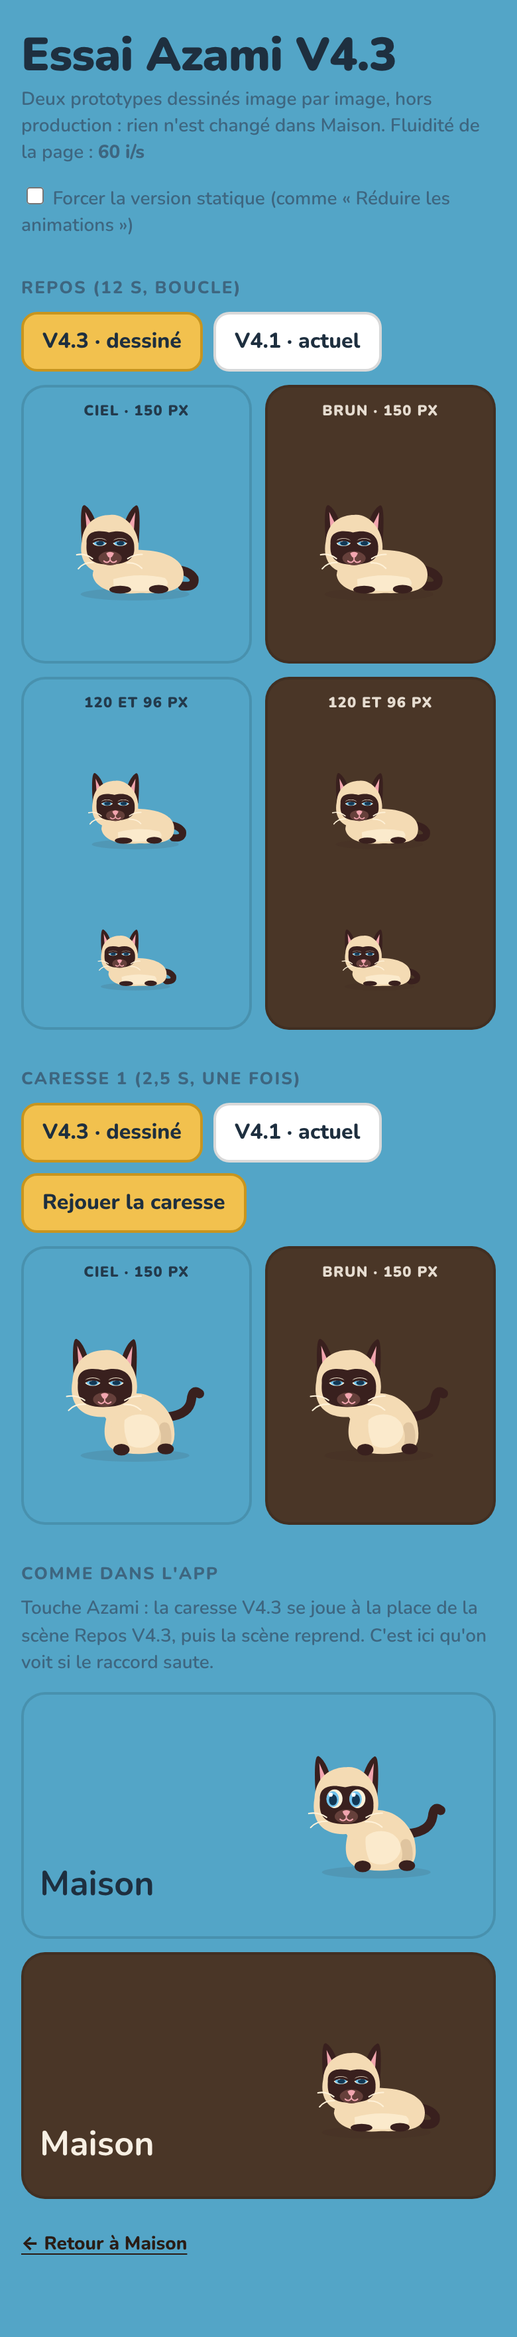
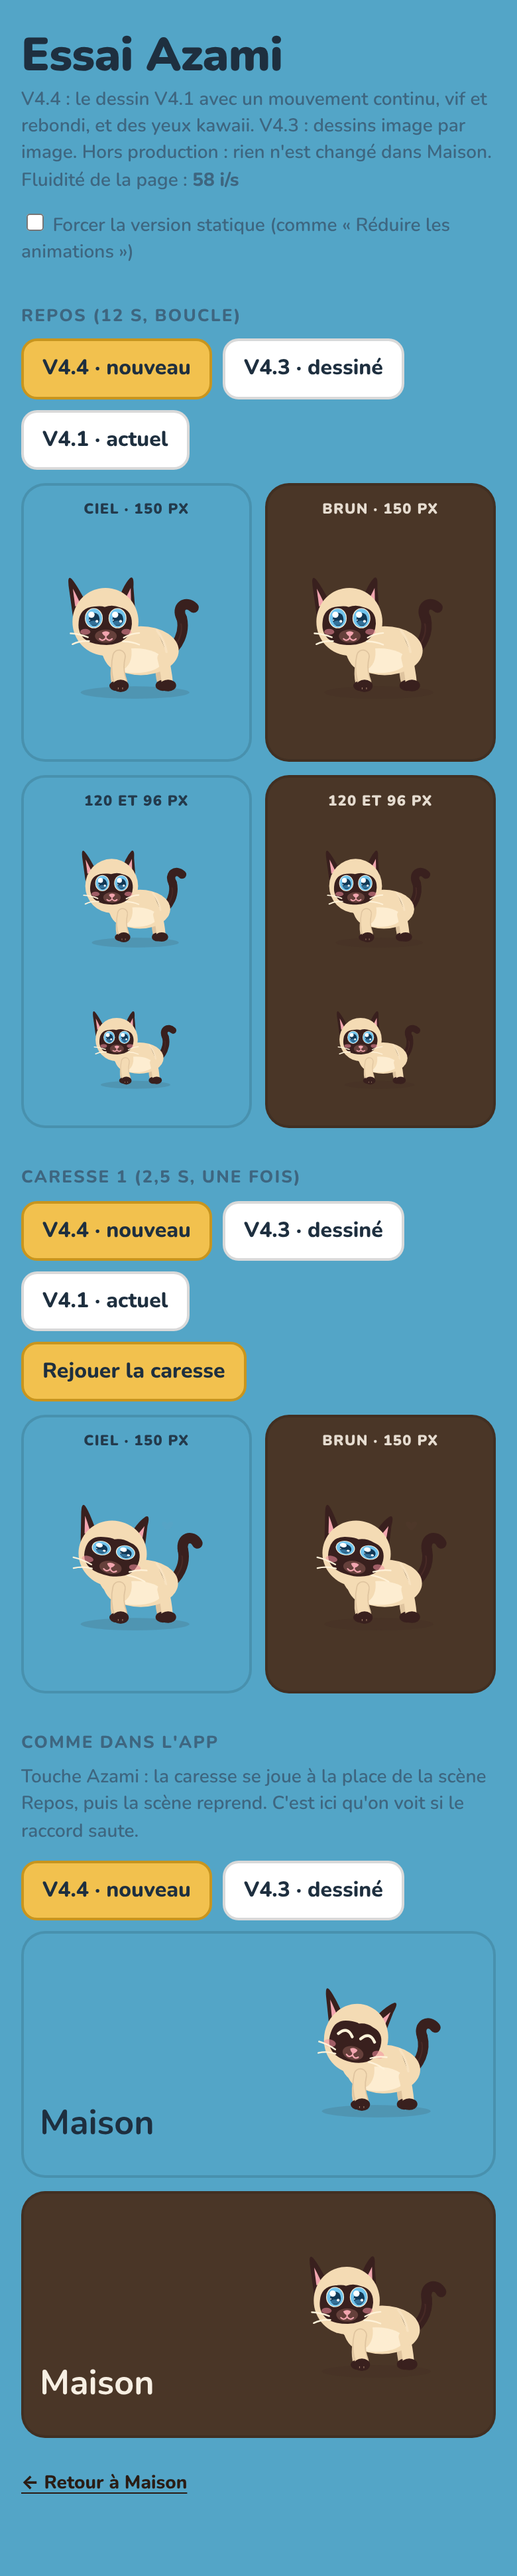
v115 : retire le bouton de test des notifications ; essai Azami V4.4 (rig V4.1, mouvement continu, yeux kawaii)
Claude-Session: https://claude.ai/code/session_01FmbBbPYR3Uqmj4jvUphPos

Changed region(s): [[0.0308, 0.0, 0.9846, 0.9682], [0.0308, 0.2811, 0.0615, 0.3123]]

diff --git a/essai-v43.html b/essai-v43.html
@@ -4,7 +4,7 @@
 <meta charset="utf-8">
 <meta name="viewport" content="width=device-width, initial-scale=1, viewport-fit=cover">
 <meta name="robots" content="noindex">
-<title>Essai Azami V4.3</title>
+<title>Essai Azami V4.3 et V4.4</title>
 <link rel="stylesheet" href="styles.css">
 <style>
   /* Page d'essai hors production : les deux prototypes V4.3 (dessin par dessin) comparés à la V4.1 intégrée. */
@@ -33,8 +33,8 @@
 </head>
 <body>
 <main class="essai">
-  <h1>Essai Azami V4.3</h1>
-  <p class="hint">Deux prototypes dessinés image par image, hors production : rien n'est changé dans Maison. Fluidité de la page : <span class="fps" id="fps">mesure…</span></p>
+  <h1>Essai Azami</h1>
+  <p class="hint">V4.4 : le dessin V4.1 avec un mouvement continu, vif et rebondi, et des yeux kawaii. V4.3 : dessins image par image. Hors production : rien n'est changé dans Maison. Fluidité de la page : <span class="fps" id="fps">mesure…</span></p>
   <p class="hint"><label><input type="checkbox" id="static"> Forcer la version statique (comme « Réduire les animations »)</label></p>
 
   <h2>Repos (12 s, boucle)</h2>
@@ -57,7 +57,8 @@
   </div>
 
   <h2>Comme dans l'app</h2>
-  <p class="hint">Touche Azami : la caresse V4.3 se joue à la place de la scène Repos V4.3, puis la scène reprend. C'est ici qu'on voit si le raccord saute.</p>
+  <p class="hint">Touche Azami : la caresse se joue à la place de la scène Repos, puis la scène reprend. C'est ici qu'on voit si le raccord saute.</p>
+  <div class="row" id="tap-ver"></div>
   <div class="head pane ciel"><h3>Maison</h3><button data-tap aria-label="Toucher Azami"><img data-k="tap" alt=""></button></div>
   <div class="head pane brun" style="margin-top:10px"><h3>Maison</h3><button data-tap aria-label="Toucher Azami"><img data-k="tap" alt=""></button></div>
 
@@ -65,31 +66,37 @@
 </main>
 <script>
   const FILES = {
-    repos: { v43: ['azami/v43/azami_v43_repos_anime.svg', 'azami/v43/statiques/azami_v43_repos_statique.svg'], v41: ['azami/v41/azami_v41_repos_anime.svg', 'azami/v41/statiques/azami_v41_repos_statique.svg'] },
-    caresse: { v43: ['azami/v43/caresse_1_anime.svg', 'azami/v43/statiques/caresse_1_statique.svg'], v41: ['azami/reactions/caresse_1_anime.svg', 'azami/reactions/statiques/caresse_1_statique.svg'] },
+    repos: { v44: ['azami/v44/azami_v44_repos_anime.svg', 'azami/v44/statiques/azami_v44_repos_statique.svg'], v43: ['azami/v43/azami_v43_repos_anime.svg', 'azami/v43/statiques/azami_v43_repos_statique.svg'], v41: ['azami/v41/azami_v41_repos_anime.svg', 'azami/v41/statiques/azami_v41_repos_statique.svg'] },
+    caresse: { v44: ['azami/v44/caresse_1_anime.svg', 'azami/v44/statiques/caresse_1_statique.svg'], v43: ['azami/v43/caresse_1_anime.svg', 'azami/v43/statiques/caresse_1_statique.svg'], v41: ['azami/reactions/caresse_1_anime.svg', 'azami/reactions/statiques/caresse_1_statique.svg'] },
   };
-  const pick = { repos: 'v43', caresse: 'v43' };
+  const pick = { repos: 'v44', caresse: 'v44', tap: 'v44' };
   const reduced = () => matchMedia('(prefers-reduced-motion: reduce)').matches || document.getElementById('static').checked;
   const src = (k, v = pick[k]) => { const [a, s] = FILES[k][v]; return reduced() ? s : `${a}?${Date.now()}`; };
   const imgs = k => document.querySelectorAll(`img[data-k="${k}"]`);
   function verRow(id, k) {
     const el = document.getElementById(id);
-    el.innerHTML = [['v43', 'V4.3 · dessiné'], ['v41', 'V4.1 · actuel']].map(([v, l]) => `<button data-v="${v}" class="${pick[k] === v ? 'on' : ''}">${l}</button>`).join('');
+    el.innerHTML = [['v44', 'V4.4 · nouveau'], ['v43', 'V4.3 · dessiné'], ['v41', 'V4.1 · actuel']].map(([v, l]) => `<button data-v="${v}" class="${pick[k] === v ? 'on' : ''}">${l}</button>`).join('');
     el.onclick = e => { const b = e.target.closest('button'); if (!b) return; pick[k] = b.dataset.v; verRow(id, k); show(k); };
   }
+  function tapRow() {
+    const el = document.getElementById('tap-ver');
+    el.innerHTML = [['v44', 'V4.4 · nouveau'], ['v43', 'V4.3 · dessiné']].map(([v, l]) => `<button data-v="${v}" class="${pick.tap === v ? 'on' : ''}">${l}</button>`).join('');
+    el.onclick = e => { const b = e.target.closest('button'); if (!b) return; pick.tap = b.dataset.v; tapRow(); showTap(); };
+  }
   function show(k) { const s = src(k); imgs(k).forEach(i => { i.src = s; }); }
-  function showTap() { const s = reduced() ? FILES.repos.v43[1] : `${FILES.repos.v43[0]}?${Date.now()}`; imgs('tap').forEach(i => { i.src = s; delete i.dataset.busy; }); }
-  // Préchargement : la caresse est prête avant le premier toucher.
-  new Image().src = FILES.caresse.v43[0];
+  function showTap() { const v = pick.tap; const s = reduced() ? FILES.repos[v][1] : `${FILES.repos[v][0]}?${Date.now()}`; imgs('tap').forEach(i => { i.src = s; delete i.dataset.busy; }); }
+  // Préchargement : les caresses sont prêtes avant le premier toucher.
+  for (const v of ['v44', 'v43']) new Image().src = FILES.caresse[v][0];
   document.querySelectorAll('[data-tap]').forEach(btn => btn.addEventListener('click', () => {
     const img = btn.querySelector('img'); if (img.dataset.busy) return;
     img.dataset.busy = '1';
-    img.src = reduced() ? FILES.caresse.v43[1] : `${FILES.caresse.v43[0]}?${Date.now()}`;
-    setTimeout(() => { img.src = reduced() ? FILES.repos.v43[1] : `${FILES.repos.v43[0]}?${Date.now()}`; delete img.dataset.busy; }, 2500);
+    const v = pick.tap;
+    img.src = reduced() ? FILES.caresse[v][1] : `${FILES.caresse[v][0]}?${Date.now()}`;
+    setTimeout(() => { img.src = reduced() ? FILES.repos[v][1] : `${FILES.repos[v][0]}?${Date.now()}`; delete img.dataset.busy; }, 2500);
   }));
   document.getElementById('replay').addEventListener('click', () => show('caresse'));
   document.getElementById('static').addEventListener('change', () => { show('repos'); show('caresse'); showTap(); });
-  verRow('repos-ver', 'repos'); verRow('car-ver', 'caresse');
+  verRow('repos-ver', 'repos'); verRow('car-ver', 'caresse'); tapRow();
   show('repos'); show('caresse'); showTap();
   let n = 0, t0 = performance.now();
   (function tick() { n++; const t = performance.now(); if (t - t0 >= 1000) { document.getElementById('fps').textContent = `${Math.round(n * 1000 / (t - t0))} i/s`; n = 0; t0 = t; } requestAnimationFrame(tick); })();

diff --git a/app.js b/app.js
@@ -1394,10 +1394,10 @@ function viewMaison() {
     <div class="theme-row"><span>Miaulements d'Azami</span><div class="seg" role="group" aria-label="Miaulements">
       <button data-action="meows" data-on="1" aria-pressed="${MEOWS}">Oui</button>
       <button data-action="meows" data-on="0" aria-pressed="${!MEOWS}">Non</button></div></div>
-    ${DEMO ? '' : `<div class="theme-row"><span>Rappels en retard</span>${notifOn() ? '<span class="hint">Activées</span><button class="btn ghost small" data-action="notif-test">Tester</button>' : '<button class="btn ghost small" data-action="notif">Activer les notifications</button>'}</div>`}
+    ${DEMO ? '' : `<div class="theme-row"><span>Rappels en retard</span>${notifOn() ? '<span class="hint">Notifications activées</span>' : '<button class="btn ghost small" data-action="notif">Activer les notifications</button>'}</div>`}
     ${DEMO ? '' : `<div class="theme-row"><span>Mot de passe</span><button class="btn ghost small" data-action="change-pass">Changer mon mot de passe</button></div>`}
     <div class="theme-row"><span>Guide de l’app</span><button class="btn ghost small" data-action="guide-reset">Revoir le guide</button></div>
-    <div class="foot">${DEMO ? '<button class="link" data-action="demo-reset">Remettre la démo à zéro</button>' : '<button class="link" data-action="logout">Se déconnecter</button>'}<span class="version">v114</span></div>`;
+    <div class="foot">${DEMO ? '<button class="link" data-action="demo-reset">Remettre la démo à zéro</button>' : '<button class="link" data-action="logout">Se déconnecter</button>'}<span class="version">v115</span></div>`;
 }
 
 // Tâches datées et prochaine échéance de chaque corvée, à placer dans l'agenda de l'app.
@@ -2557,15 +2557,6 @@ const actions = {
 
   retry: () => refresh(),
   notif: () => enableNotifications(),
-  'notif-test': async () => {
-    haptic(1); toast('Envoi d’une notification d’essai…');
-    await subscribePush();
-    const { data, error } = await sb.functions.invoke('rappels', { body: { action: 'test' } });
-    if (error) { toast('Le serveur de notifications ne répond pas. Réessaie dans un instant.'); console.warn(error); return; }
-    if (!data?.devices) toast('Ce téléphone n’est pas encore inscrit. Sur iPhone, ouvre Maison depuis l’écran d’accueil (pas Safari), puis réactive les notifications.');
-    else if (!data.sent) toast('L’inscription de ce téléphone a expiré. Réactive les notifications.');
-    else toast('Envoyée ! Elle arrive dans quelques secondes (verrouille le téléphone pour bien la voir).');
-  },
   'cancel-recovery': () => { S.recovery = false; try { sessionStorage.removeItem('maison-recovery'); } catch {} S.login.step = 'login'; refresh(); },
   'change-pass': () => { S.recovery = true; S.login.step = 'newpass'; render(); window.scrollTo(0, 0); },
   'task-toggle': el => {

diff --git a/sw.js b/sw.js
@@ -1,5 +1,5 @@
 // Maison : service worker. L'app s'ouvre sans réseau (lecture) et reçoit des notifications.
-const VERSION = 'maison-v114';
+const VERSION = 'maison-v115';
 const SHELL = ['./', './index.html', './styles.css', './app.js', './themes.js', './fx.js', './people.js', './dechets.js', './recettes.js', './fraicheur.js', './cuisine.js', './etapes.js', './guide.js', './rayons.js', './config.js', './manifest.webmanifest', './vendor/supabase-js-2.49.4.js',
   './azami/v41/azami_v41_etirement_anime.svg', './azami/v41/azami_v41_jeu_anime.svg', './azami/v41/azami_v41_toilette_anime.svg', './azami/v41/azami_v41_marche_anime.svg', './azami/v41/azami_v41_miaulement_anime.svg', './azami/v41/azami_v41_repos_anime.svg', './azami/v41/azami_v41_menage_anime.svg', './azami/v41/azami_v41_courses_anime.svg', './azami/v41/azami_v41_argent_anime.svg', './azami/v41/azami_v41_care_anime.svg', './azami/v41/azami_v41_reussite_anime.svg', './azami/v41/azami_v41_cuisine_anime.svg', './azami/reactions/annuler_anime.svg', './azami/reactions/minuteur_fini_anime.svg', './azami/reactions/machine_lancee_anime.svg', './azami/reactions/recette_reussie_anime.svg', './azami/reactions/a_finir_vite_anime.svg', './azami/reactions/caresse_1_anime.svg', './azami/reactions/caresse_2_anime.svg', './azami/reactions/caresse_3_anime.svg', './azami/reactions/tache_cochee_anime.svg', './azami/reactions/corvee_terminee_anime.svg', './azami/reactions/courses_completees_anime.svg', './azami/reactions/comptes_equilibres_anime.svg', './azami/reactions/mot_envoye_anime.svg', './azami/reactions/objectif_commun_anime.svg', './azami/reactions/surprise_coucou_anime.svg', './azami/reactions/fete_reussites_anime.svg',
   './icons/icon-192.png', './icons/icon-512.png',
